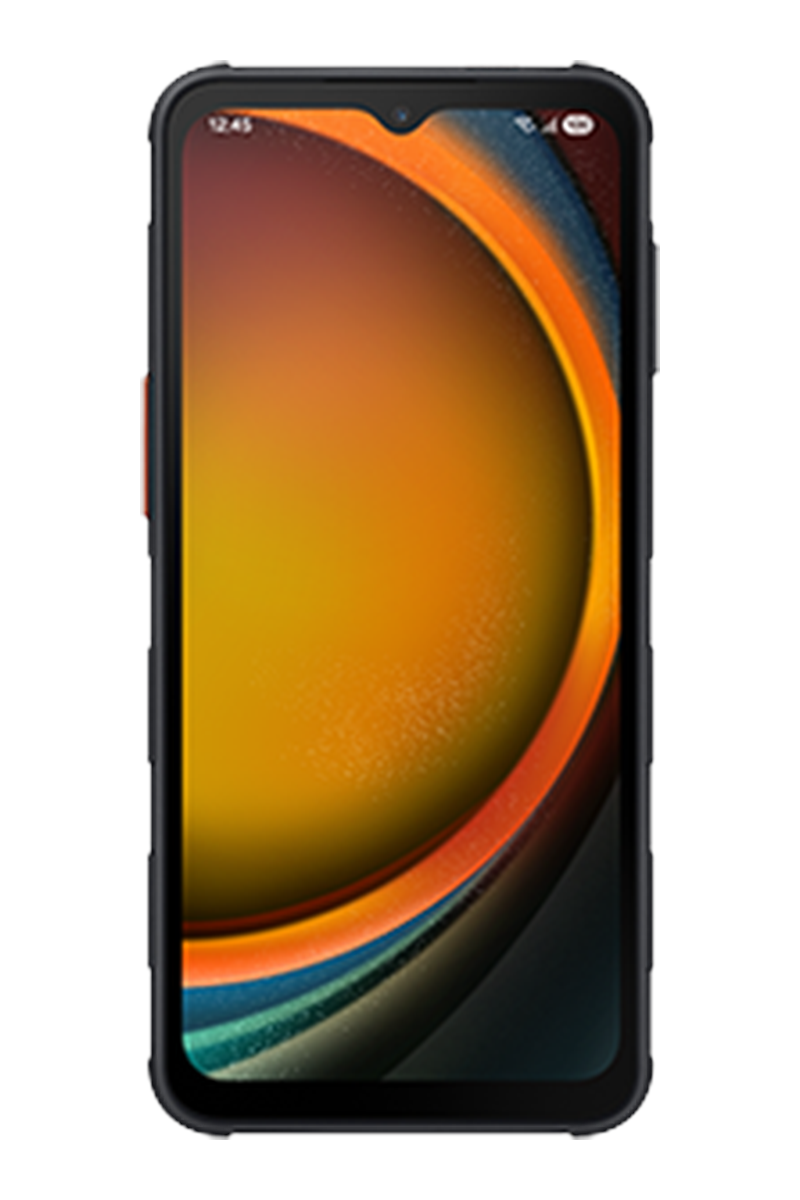
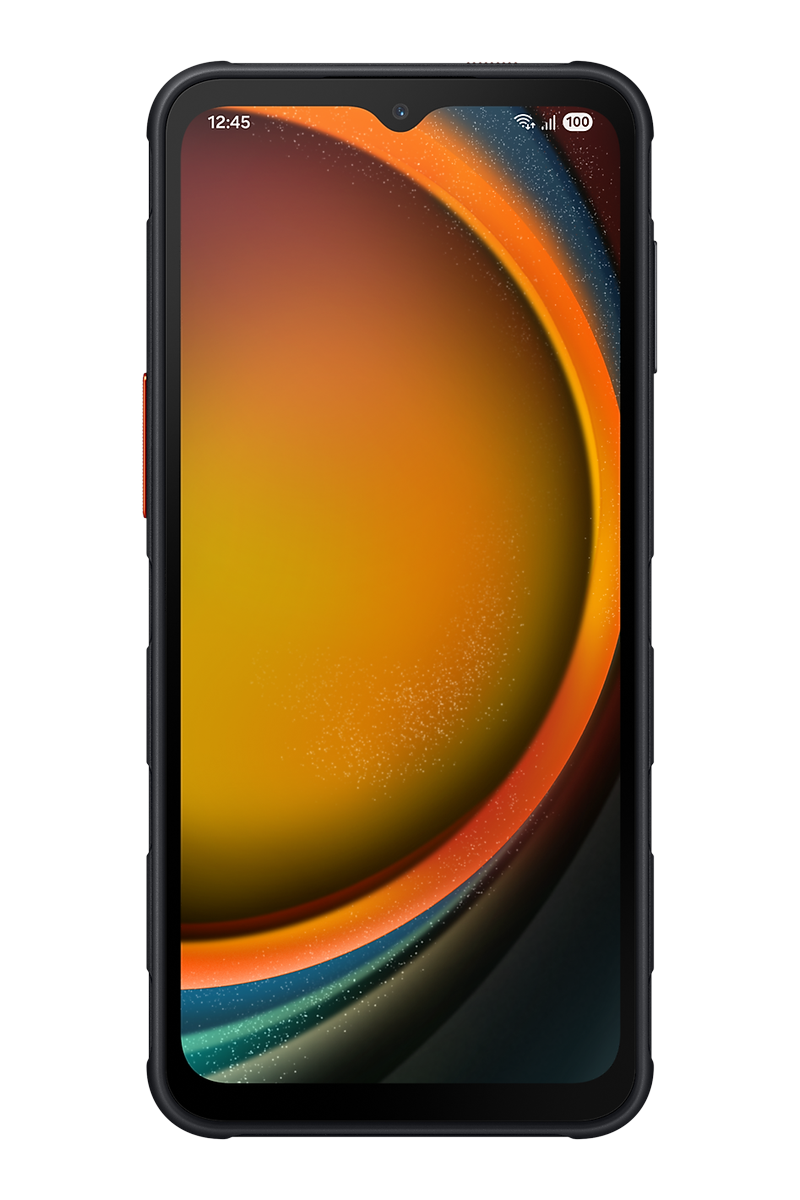
Galaxy XCover7 Pro: ostre zdjęcia z galerii Samsunga
Przód w tym samym kadrze co inne telefony (800 × 1200), ale z oryginału
2052 px zamiast powiększenia z 330 px. Na karcie także tył oraz przód z tyłem.
Źródło: galeria samsung.com/us (SM-G766UZKTXAU).

diff --git a/app/produkt/samsung-xcover7/page.tsx b/app/produkt/samsung-xcover7/page.tsx
@@ -11,7 +11,8 @@ const data: ProductData = {
   name: 'Samsung Galaxy XCover7 Pro',
   category: 'Telefony',
   categoryHref: '/kategoria/telefony',
-  images: ['/xcover7pro_1.png'],
+  // zdjęcia z galerii samsung.com/us (SM-G766UZKTXAU), docięte do 800 × 1200 jak S25 FE
+  images: ['/xcover7pro_1.png', '/xcover7pro_2.png', '/xcover7pro_3.png'],
   inquiry: {
     description: 'Wzmocniony smartfon z wymienną baterią',
     specifications: 'Android 15 · 6,6″ FHD+ LCD 120 Hz · Snapdragon 7s Gen 3 · 6/128 GB · 4350 mAh wymienna · IP68, MIL-STD-810H',
